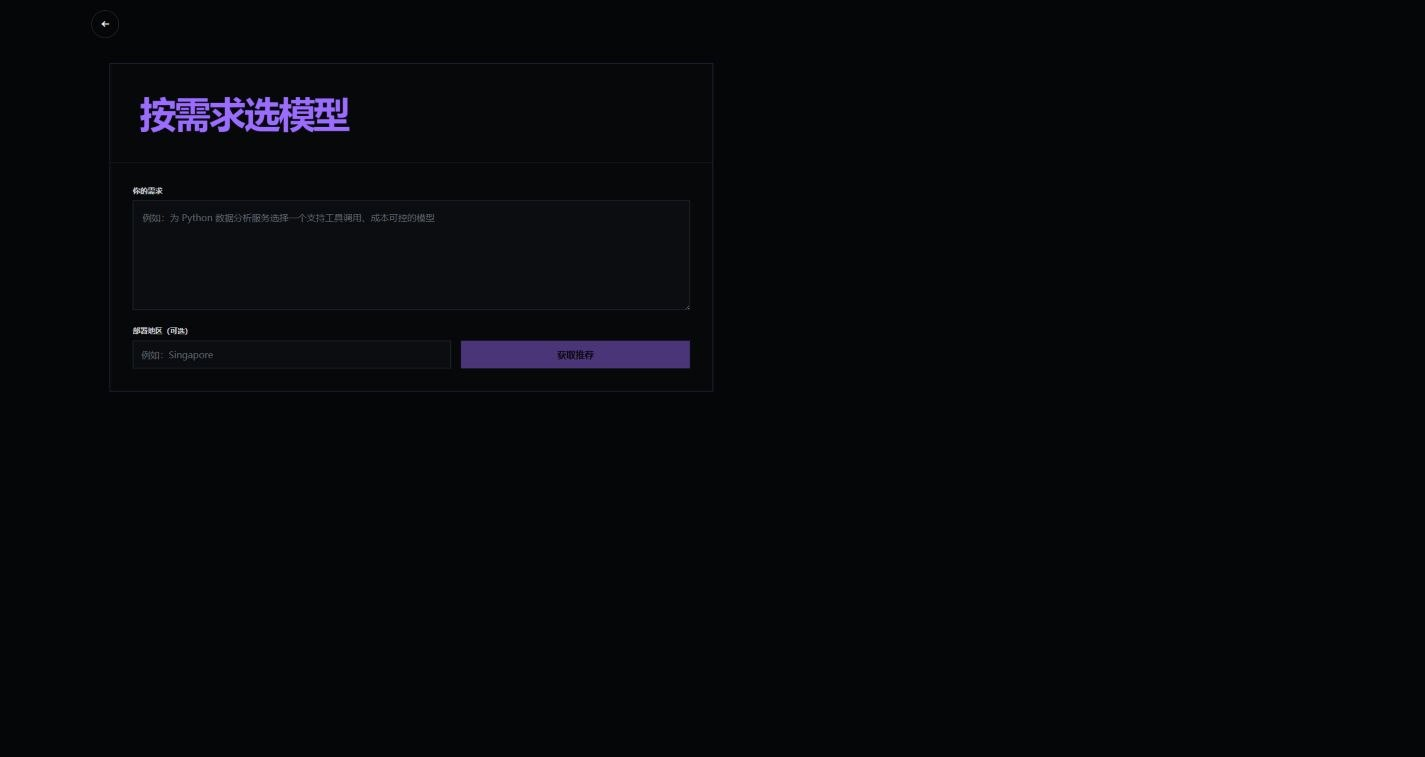
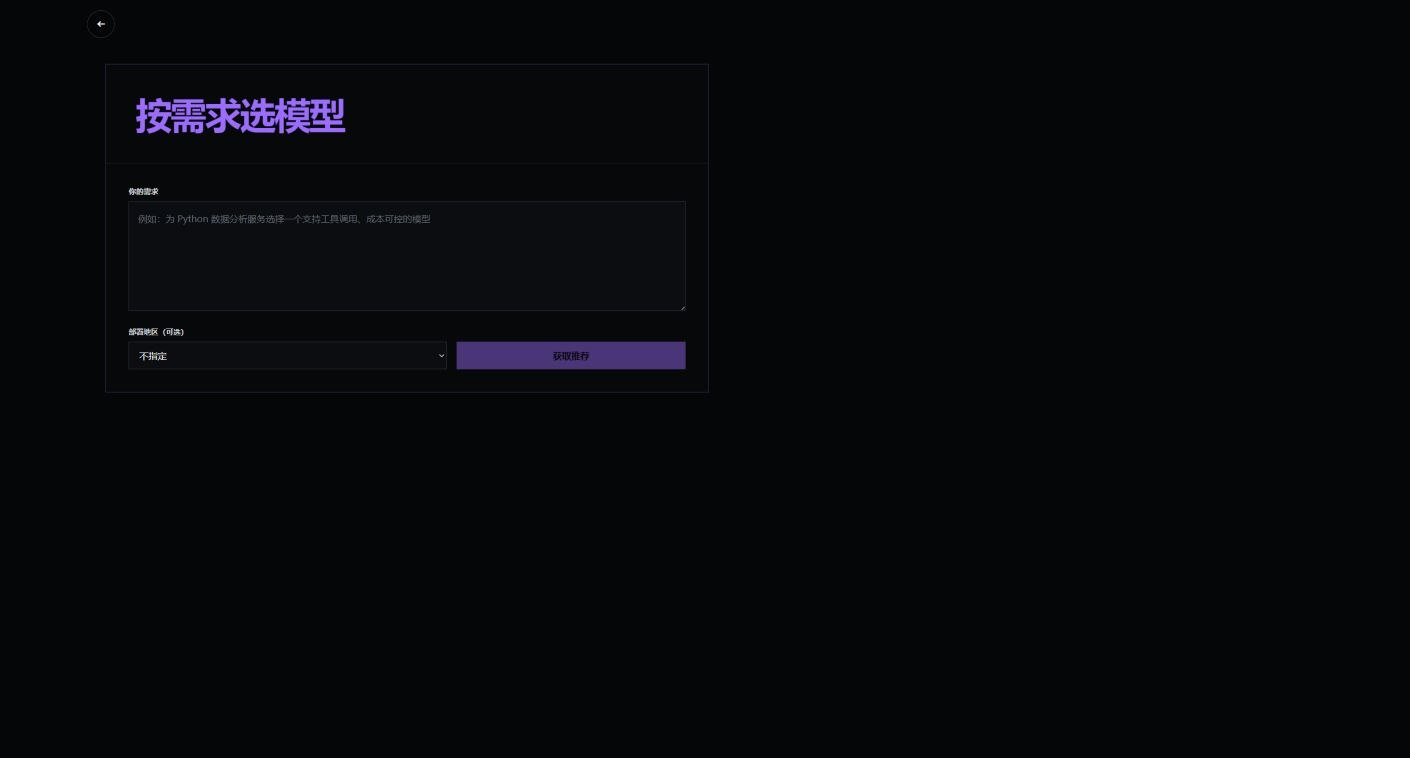
feat: make advisor region selectable

Changed region(s): [[0.0936, 0.1215, 0.2496, 0.1823], [0.0936, 0.2431, 0.3121, 0.3038], [0.0936, 0.4254, 0.156, 0.4861]]

diff --git a/src/features/advisor/AdvisorForm.test.tsx b/src/features/advisor/AdvisorForm.test.tsx
@@ -78,7 +78,10 @@ describe("AdvisorForm", () => {
     );
 
     expect(screen.getByLabelText("你的需求").hasAttribute("aria-describedby")).toBe(false);
-    expect(screen.getByLabelText("部署地区（可选）").hasAttribute("aria-describedby")).toBe(false);
+    const deploymentRegion = screen.getByRole("combobox", { name: "部署地区（可选）" });
+    expect((deploymentRegion as HTMLSelectElement).value).toBe("");
+    expect(within(deploymentRegion).getByRole("option", { name: "不指定" }).getAttribute("value")).toBe("");
+    expect(deploymentRegion.hasAttribute("aria-describedby")).toBe(false);
     expect(screen.queryByText("写清任务和最重要的偏好；系统只从完整 AA 榜单中筛选。")).toBeNull();
     expect(screen.queryByText("仅作为官方资料核验要求，不代表该地区一定可用。")).toBeNull();
     expect(screen.queryByRole("region", { name: "模型推荐结果" })).toBeNull();
@@ -111,7 +114,10 @@ describe("AdvisorForm", () => {
     );
 
     await user.type(screen.getByLabelText("你的需求"), "  推荐一个编程模型  ");
-    await user.type(screen.getByLabelText("部署地区（可选）"), "  Singapore  ");
+    await user.selectOptions(
+      screen.getByRole("combobox", { name: "部署地区（可选）" }),
+      screen.getByRole("option", { name: "新加坡" }),
+    );
     await user.click(screen.getByRole("button", { name: "获取推荐" }));
 
     const primaryStatusLabel = await screen.findByText("推荐依据");
@@ -135,6 +141,27 @@ describe("AdvisorForm", () => {
     expect(JSON.parse(String(init.body))).toEqual({
       requirement: "推荐一个编程模型",
       deployment_region: "Singapore",
+      budget: null,
+    });
+  });
+
+  it("submits a null deployment region after returning to the unspecified option", async () => {
+    const fetchImpl = jsonFetch(recommendationResponse());
+    const fetchMock = fetchImpl as unknown as ReturnType<typeof vi.fn>;
+    const user = userEvent.setup();
+    render(<AdvisorForm apiOrigin="https://api.example.com" displayNames={new Map()} fetchImpl={fetchImpl} />);
+
+    await user.type(screen.getByLabelText("你的需求"), "推荐一个编程模型");
+    const deploymentRegion = screen.getByRole("combobox", { name: "部署地区（可选）" });
+    await user.selectOptions(deploymentRegion, screen.getByRole("option", { name: "新加坡" }));
+    await user.selectOptions(deploymentRegion, screen.getByRole("option", { name: "不指定" }));
+    await user.click(screen.getByRole("button", { name: "获取推荐" }));
+
+    await waitFor(() => expect(fetchMock).toHaveBeenCalledTimes(1));
+    const [, init] = fetchMock.mock.calls[0];
+    expect(JSON.parse(String(init.body))).toEqual({
+      requirement: "推荐一个编程模型",
+      deployment_region: null,
       budget: null,
     });
   });

diff --git a/src/features/advisor/AdvisorForm.tsx b/src/features/advisor/AdvisorForm.tsx
@@ -53,6 +53,19 @@ const OBJECTIVE_LABELS = {
   cheapest: "最低价格优先",
 } as const;
 
+const DEPLOYMENT_REGION_OPTIONS = [
+  { label: "中国大陆", value: "Mainland China" },
+  { label: "中国香港", value: "Hong Kong" },
+  { label: "新加坡", value: "Singapore" },
+  { label: "日本", value: "Japan" },
+  { label: "韩国", value: "South Korea" },
+  { label: "美国", value: "United States" },
+  { label: "加拿大", value: "Canada" },
+  { label: "欧盟", value: "European Union" },
+  { label: "英国", value: "United Kingdom" },
+  { label: "澳大利亚", value: "Australia" },
+] as const;
+
 function buildRequest(fields: {
   requirement: string;
   deploymentRegion: string;
@@ -180,17 +193,19 @@ export default function AdvisorForm({ apiOrigin, displayNames, fetchImpl }: Advi
         <div className="advisor-form-row">
           <div className="advisor-field">
             <label htmlFor="advisor-deploymentRegion">部署地区（可选）</label>
-            <input
+            <select
               id="advisor-deploymentRegion"
-              type="text"
-              maxLength={64}
               value={deploymentRegion}
               aria-invalid={errors.deploymentRegion ? "true" : undefined}
               aria-describedby={errors.deploymentRegion ? "advisor-deployment-region-error" : undefined}
               disabled={isRunning}
-              placeholder="例如：Singapore"
               onChange={(event) => { setDeploymentRegion(event.target.value); clearErrors(); }}
-            />
+            >
+              <option value="">不指定</option>
+              {DEPLOYMENT_REGION_OPTIONS.map((region) => (
+                <option key={region.value} value={region.value}>{region.label}</option>
+              ))}
+            </select>
             {errors.deploymentRegion && <p id="advisor-deployment-region-error" className="advisor-field-error">{errors.deploymentRegion}</p>}
           </div>
 

diff --git a/src/styles.css b/src/styles.css
@@ -70,6 +70,7 @@ body {
 
 button,
 input,
+select,
 textarea { font: inherit; }
 
 button { color: inherit; }
@@ -79,6 +80,7 @@ button,
 summary,
 a,
 input,
+select,
 textarea { -webkit-tap-highlight-color: transparent; }
 
 :focus-visible {
@@ -1982,8 +1984,11 @@ textarea { -webkit-tap-highlight-color: transparent; }
 }
 
 .advisor-field textarea,
-.advisor-field input {
+.advisor-field input,
+.advisor-field select {
   width: 100%;
+  min-width: 0;
+  max-width: 100%;
   border: 1px solid #383d45;
   border-radius: 0;
   color: #f5f7fa;
@@ -1998,7 +2003,11 @@ textarea { -webkit-tap-highlight-color: transparent; }
   line-height: 1.65;
 }
 
-.advisor-field input { min-height: 48px; padding: 0 14px; }
+.advisor-field input,
+.advisor-field select { min-height: 48px; padding: 0 14px; }
+
+.advisor-field select { color-scheme: dark; }
+.advisor-field select option { color: #f5f7fa; background: #0b0d10; }
 
 .advisor-field textarea::placeholder,
 .advisor-field input::placeholder { color: #646b75; }
@@ -2006,11 +2015,16 @@ textarea { -webkit-tap-highlight-color: transparent; }
 .advisor-field textarea:focus,
 .advisor-field input:focus { border-color: var(--advisor); background: #0d0f14; outline: none; }
 
+.advisor-field select:focus { border-color: var(--advisor); background: #0d0f14; }
+.advisor-field select:focus-visible { outline-color: var(--advisor); }
+
 .advisor-field textarea[aria-invalid="true"],
-.advisor-field input[aria-invalid="true"] { border-color: #f28a96; }
+.advisor-field input[aria-invalid="true"],
+.advisor-field select[aria-invalid="true"] { border-color: #f28a96; }
 
 .advisor-field textarea:disabled,
-.advisor-field input:disabled { cursor: wait; opacity: 0.72; }
+.advisor-field input:disabled,
+.advisor-field select:disabled { cursor: wait; opacity: 0.72; }
 
 .advisor-field-error {
   margin: 8px 0 0;

diff --git a/src/App.test.tsx b/src/App.test.tsx
@@ -132,7 +132,7 @@ describe("public product routes", () => {
     expect(screen.getByRole("heading", { level: 1, name: "按需求选模型" })).toBeTruthy();
     expect(screen.queryByText("MODEL ADVISOR")).toBeNull();
     expect(screen.getByRole("textbox", { name: "你的需求" })).toBeTruthy();
-    expect(screen.getByRole("textbox", { name: "部署地区（可选）" })).toBeTruthy();
+    expect(screen.getByRole("combobox", { name: "部署地区（可选）" })).toBeTruthy();
     expect(screen.queryByRole("checkbox", { name: "我有明确预算" })).toBeNull();
     expect(screen.queryByLabelText("月预算（USD）")).toBeNull();
     expect(screen.queryByRole("region", { name: "模型推荐结果" })).toBeNull();

diff --git a/PROJECT_STATE.md b/PROJECT_STATE.md
@@ -27,6 +27,7 @@ Maintain the published AI model leaderboard and one-shot model advisor. Product 
 - PR #40 merged as `473cccc`; documentation follow-up PR #41 merged as `f2eca68`. GitHub Pages and Zeabur publish the no-search Advisor from protected `main`, and Zeabur reports one Running instance.
 - Knowledge-note validation treats a single literal `~` as plain approximation text while continuing to reject actual `~~` Markdown strikethrough, other Markdown, and URL-like content. PR #42 released this production false-positive fix without changing the AA-only evidence boundary.
 - The Advisor UI removes `MODEL ADVISOR`, uses the advisor purple for the Chinese title, shows only requirement plus optional deployment region, places `获取推荐` to the region field's right, sends `budget: null` from the browser, and renders no idle result placeholder. Focused frontend tests and local desktop/mobile browser acceptance passed, and the Advisor screenshot was refreshed.
+- The public deployment-region free-text field has been replaced by a native select. Its ordered mappings are `不指定` -> `null`, `中国大陆` -> `Mainland China`, `中国香港` -> `Hong Kong`, `新加坡` -> `Singapore`, `日本` -> `Japan`, `韩国` -> `South Korea`, `美国` -> `United States`, `加拿大` -> `Canada`, `欧盟` -> `European Union`, `英国` -> `United Kingdom`, and `澳大利亚` -> `Australia`. The two focused frontend test files and local desktop/mobile browser acceptance passed, and the Advisor screenshot was refreshed; the full suite and production build remain delegated to the protected pull-request gate.
 
 ## Important Decisions
 
@@ -35,7 +36,8 @@ Maintain the published AI model leaderboard and one-shot model advisor. Product 
 - Advisor membership, filtering, metrics, cost calculations, and ordering are deterministic from AA data. DeepSeek may parse the strict intent and add explicitly unverified, URL-free existing-knowledge notes only after the Top 3 is frozen.
 - Public Advisor requests never enable `web_search`, continue a provider response, or fetch citation URLs. “No web search” still requires remote DeepSeek API access for intent parsing and optional notes; it is not a fully offline service.
 - Hard requirements and deployment region remain unverified request context and never filter or reorder candidates. The revised public runtime must keep every response `aa_only` with empty checks, citations, and rejections; provider/configuration/capacity failure falls back to deterministic AA-only output.
-- The public browser has no budget UI and always sends `budget: null`; the backend/API retains its optional validated budget-object contract for compatibility. The idle Advisor has no result placeholder, and its submit action remains to the right of the optional deployment-region field.
+- The public browser has no budget UI and always sends `budget: null`; the backend/API retains its optional validated budget-object contract for compatibility. The idle Advisor has no result placeholder, and its submit action remains to the right of the optional deployment-region select.
+- The browser's fixed deployment-region choices are unverified preference values and never assert provider availability or affect filtering/order. The backend/API continues to accept any clean deployment-region string or `null` for compatibility; it is not narrowed to the browser option set.
 - Keep source mappings, generated-data policy, branch protection, credentials, and deployed legacy endpoints intact during repository housekeeping.
 
 ## Known Problems
@@ -68,9 +70,11 @@ Maintain the published AI model leaderboard and one-shot model advisor. Product 
 - Sanitized production-container diagnostics isolated that fallback to the Markdown detector rejecting a single ASCII `~` used as an approximation marker in otherwise schema-valid notes. A focused regression failed with the previous detector; after the narrow fix, all 22 offline-gateway unit tests and targeted Ruff checks passed.
 - PR #42 passed pull-request Verify run `34020282845`; merged-`main` Verify run `34020344535` and Pages run `34020344545` passed. Zeabur then reported the PR #42 revision Running from `main`; `/healthz` returned `ok`, and one bounded public Advisor request returned all three optional knowledge notes while preserving `aa_only` and empty checks, citations, and rejections.
 - The published Pages bundle contains the AA-snapshot/no-search explanation and no longer contains the former controlled-source or live-verification copy.
-- The latest Advisor UI simplification was checked with the two directly related frontend test files and local desktop/mobile browser layouts. The full frontend suite and production build are delegated to the protected pull-request gate.
+- The preceding Advisor UI simplification was checked with the two directly related frontend test files and local desktop/mobile browser layouts. The full frontend suite and production build were delegated to its protected pull-request gate.
+- The deployment-region native-select refinement passed 14 focused tests across `AdvisorForm.test.tsx` and `App.test.tsx`. Local desktop and mobile checks confirmed the exact option values, `不指定` default, `新加坡` -> `Singapore`, matching 48px desktop control heights, visible keyboard focus, single-column mobile layout, and no horizontal overflow. `docs/screenshots/advisor.jpg` reflects the select. The full frontend suite and production build remain delegated to the protected pull-request gate.
 
 ## Next
 
 - Merge PR #18 only after explicit acceptance of the AA v4.2 scale change, the Agentic 197-to-100 coverage reduction, and the resulting advisor-candidate impact. Before manual merge, confirm the signed head was generated from then-current runtime code on `main`; rerun and re-review only if it has become stale. Missing Agentic values remain missing, never zero.
+- Publish the deployment-region native select only through the protected pull-request and Pages gates, then confirm the deployed option set and responsive layout before describing it as live.
 - Keep `MODELOPS_TRUSTED_PROXY_CIDRS` empty until Zeabur publishes or confirms the exact ingress ranges.

diff --git a/AGENTS.md b/AGENTS.md
@@ -103,8 +103,10 @@ python -m uvicorn app.main:app --host 127.0.0.1 --port 8000 --log-config logging
 ## Advisor invariants
 
 - The public advisor is one-shot and has no account, conversation history, database, or visible graph/tool trace.
-- The idle advisor page renders no result placeholder region or result-placeholder text. Omit the `MODEL ADVISOR` kicker; render the Chinese `按需求选模型` title in the advisor purple, then only the requirement field, optional deployment-region field, their labels/placeholders/validation errors, and the submit action. Place `获取推荐` to the right of the deployment-region field.
+- The idle advisor page renders no result placeholder region or result-placeholder text. Omit the `MODEL ADVISOR` kicker; render the Chinese `按需求选模型` title in the advisor purple, then only the requirement field, optional deployment-region native select, their labels/placeholders/validation errors, and the submit action. Place `获取推荐` to the right of the deployment-region select.
+- The public deployment-region select defaults to `不指定` and sends `null`. Its fixed Chinese-label-to-wire-value mappings are `中国大陆` -> `Mainland China`, `中国香港` -> `Hong Kong`, `新加坡` -> `Singapore`, `日本` -> `Japan`, `韩国` -> `South Korea`, `美国` -> `United States`, `加拿大` -> `Canada`, `欧盟` -> `European Union`, `英国` -> `United Kingdom`, and `澳大利亚` -> `Australia`. These values express unverified user preference only; they never imply provider availability.
 - The public browser form never exposes budget controls and always sends `budget: null`. Keep the backend/API request contract compatible with an optional validated budget object for non-browser callers; this compatibility must not add budget fields back to the public form.
+- Keep the backend/API `deployment_region` request contract compatible with any clean string or `null` for non-browser callers. The browser's fixed select values must not narrow that API contract, and deployment region remains unverified and excluded from filtering and ordering.
 - DeepSeek may extract a strict intent/constraint contract but does not choose or rank arbitrary models.
 - Its output is limited to ordered ability enums, one promoted objective, and reviewed hard-requirement enums; deployment region and any optional budget/token values come only from the validated request. Reject model-provided URLs, candidate/provider IDs, unknown fields, and unsupported enums.
 - Deterministic code filters and orders the validated full AA snapshot using the eligibility, monthly-cost, priority, missing-value, and tie-break rules in `DESIGN.md`, then freezes the first three rows as the public recommendation and alternatives.

diff --git a/DESIGN.md b/DESIGN.md
@@ -244,14 +244,16 @@ The advisor is a one-shot form, not a chat history. Its Chinese title is `按需
 Visible inputs:
 
 - one large free-form requirement field;
-- optional deployment region.
+- optional deployment-region native select.
 
-The `获取推荐` action sits to the right of the deployment-region field. The public browser exposes no budget controls and always sends `budget: null`. The idle page renders no result container, result placeholder, or result-placeholder copy; results appear only after a request begins. It otherwise retains only the title, field labels, placeholders, validation errors, and submit action, with no header description, helper paragraphs, or service-connection status copy.
+The `获取推荐` action sits to the right of the deployment-region select. The public browser exposes no budget controls and always sends `budget: null`. The idle page renders no result container, result placeholder, or result-placeholder copy; results appear only after a request begins. It otherwise retains only the title, field labels, placeholders, validation errors, and submit action, with no header description, helper paragraphs, or service-connection status copy.
 
 The public browser input contracts are explicit:
 
 - requirement text: required, trimmed, 1–2,000 characters;
-- deployment region: optional free text, trimmed, at most 64 characters, retained only as an explicitly unverified constraint; it never filters or reorders candidates and is never proof of availability.
+- deployment region: an optional native select whose default `不指定` serializes as `null`. Its remaining fixed mappings are `中国大陆` -> `Mainland China`, `中国香港` -> `Hong Kong`, `新加坡` -> `Singapore`, `日本` -> `Japan`, `韩国` -> `South Korea`, `美国` -> `United States`, `加拿大` -> `Canada`, `欧盟` -> `European Union`, `英国` -> `United Kingdom`, and `澳大利亚` -> `Australia`.
+
+These choices are stable browser request values, not a list of verified provider locations. The selected region remains explicitly unverified, never filters or reorders candidates, and is never proof of availability. For compatibility, the backend endpoint continues to accept any clean deployment-region string of at most 64 characters or `null`; the browser-only fixed choices do not narrow the API contract.
 
 The backend endpoint retains compatibility with an optional validated budget object for non-browser callers. That request-only object contains:
 

diff --git a/README.md b/README.md
@@ -18,7 +18,7 @@
 
 支持桌面和手机浏览。数据来源于 [Artificial Analysis](https://artificialanalysis.ai/)，更新日期见网站页脚。
 
-Advisor 公共表单只显示需求和可选部署地区，紫色中文标题下不显示 `MODEL ADVISOR`；`获取推荐` 位于部署地区右侧，空闲时不显示结果占位区。浏览器请求固定发送 `budget: null`，后端 API 仍兼容经过验证的可选预算对象。
+Advisor 公共表单只显示需求和可选部署地区原生选择器，紫色中文标题下不显示 `MODEL ADVISOR`；`获取推荐` 位于部署地区右侧，空闲时不显示结果占位区。地区默认为 `不指定`，固定选项只表达未核验的用户偏好，不代表地区可用性；后端仍兼容任意 clean string 或 `null`。浏览器请求固定发送 `budget: null`，后端 API 仍兼容经过验证的可选预算对象。
 
 Advisor 不启用 `web_search`，不抓取或展示模型生成的引用 URL，也不会用 DeepSeek 的知识说明过滤或重排 AA 结果、核验硬性要求或部署地区。说明可能过时，所有结果均保持 `aa_only`；DeepSeek 请求仍会发送到远程 API，因此“不联网搜索”不等于完全离线。没有可用模型服务时，Advisor 仍返回确定性的 AA-only 结果。
 
